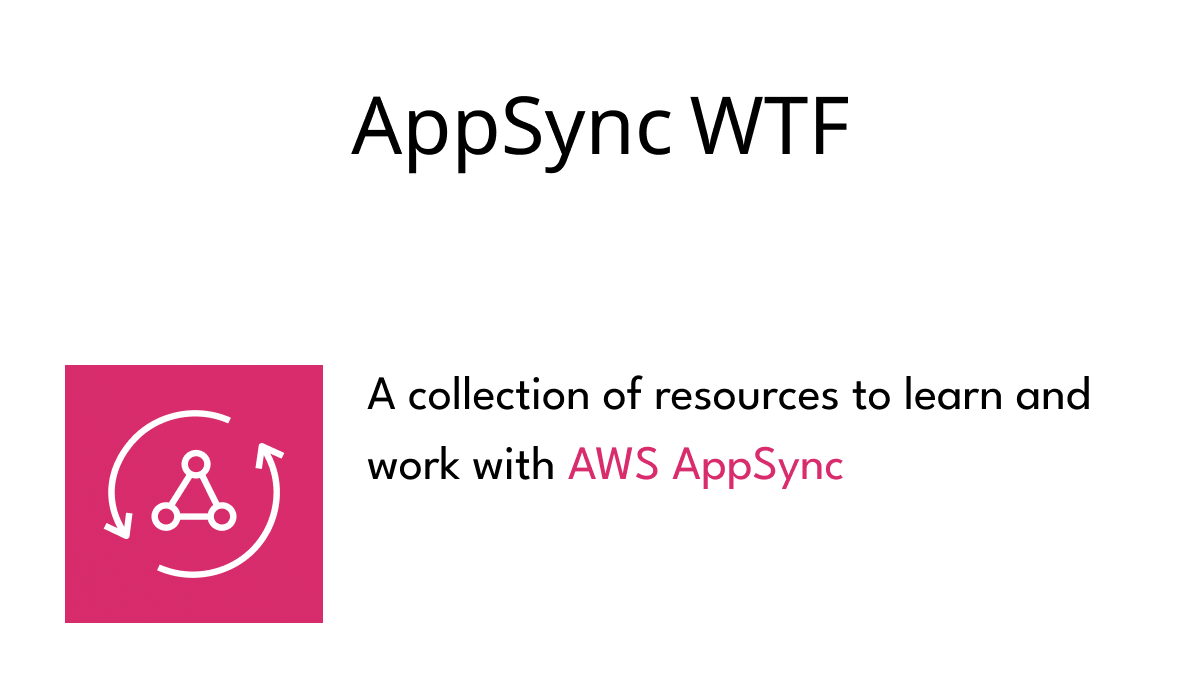
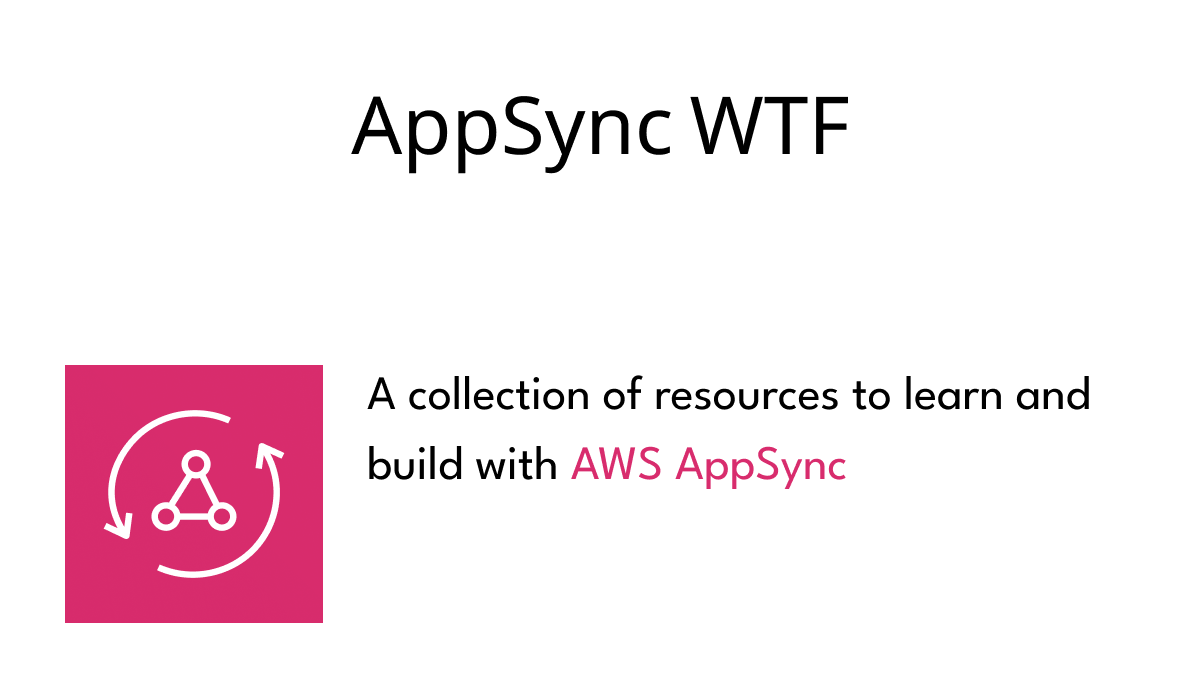
Add questions; change copy

Changed region(s): [[0.3083, 0.6533, 0.7092, 0.7467]]

diff --git a/docusaurus.config.ts b/docusaurus.config.ts
@@ -4,7 +4,7 @@ import type * as Preset from '@docusaurus/preset-classic';
 
 const config: Config = {
   title: 'AppSync WTF',
-  tagline: 'A collection of resources to learn and work with AWS AppSync',
+  tagline: 'A collection of resources to learn and build with AWS AppSync',
   favicon: 'img/favicon.ico',
 
   // Set the production url of your site here

diff --git a/src/pages/index.tsx b/src/pages/index.tsx
@@ -22,7 +22,7 @@ function HomepageHeader() {
 
 export default function Home(): JSX.Element {
   return (
-    <Layout description="A collection of resources to learn and work with AWS AppSync.">
+    <Layout description="A collection of resources to learn and build with AWS AppSync.">
       <HomepageHeader />
       <main>
         <HomepageFeatures />

diff --git a/src/pages/faq.md b/src/pages/faq.md
@@ -4,6 +4,21 @@ title: Frequently Asked Questions
 
 # Frequently Asked Questions
 
+### I wrote a blog post about AWS AppSync, can I add a link to it here?
+
+Maybe. While we're thrilled about contributions, our primary aim is to curate a collection that delivers substantial value to our community. We prioritize resources that are relevant, useful and educational.
+
+Examples of good content are: detailed tutorials, workshops, open source libraries, developer tools, etc.
+
+Avoid: Posts that offer basic/generic information, outdated or repetitive content, etc.
+
+### Can I write a guide/course/workshop directly into this website?
+
+Yes! On the long run, we'd like to keep all the content accessible and centralized.
+There are plans to include guides and cookbooks directly in this website.
+
+At the time of writing this, there are not any contributor guidelines on how to do this yet. If you would like to collaborate, [hit me up](mailto:benoit.boure@gmail.com?subject=Collaborate%20to%20AppSync%20WTF).
+
 ### What does WTF stand for?
 
 **W**ay **T**o **F**oster! 😉
